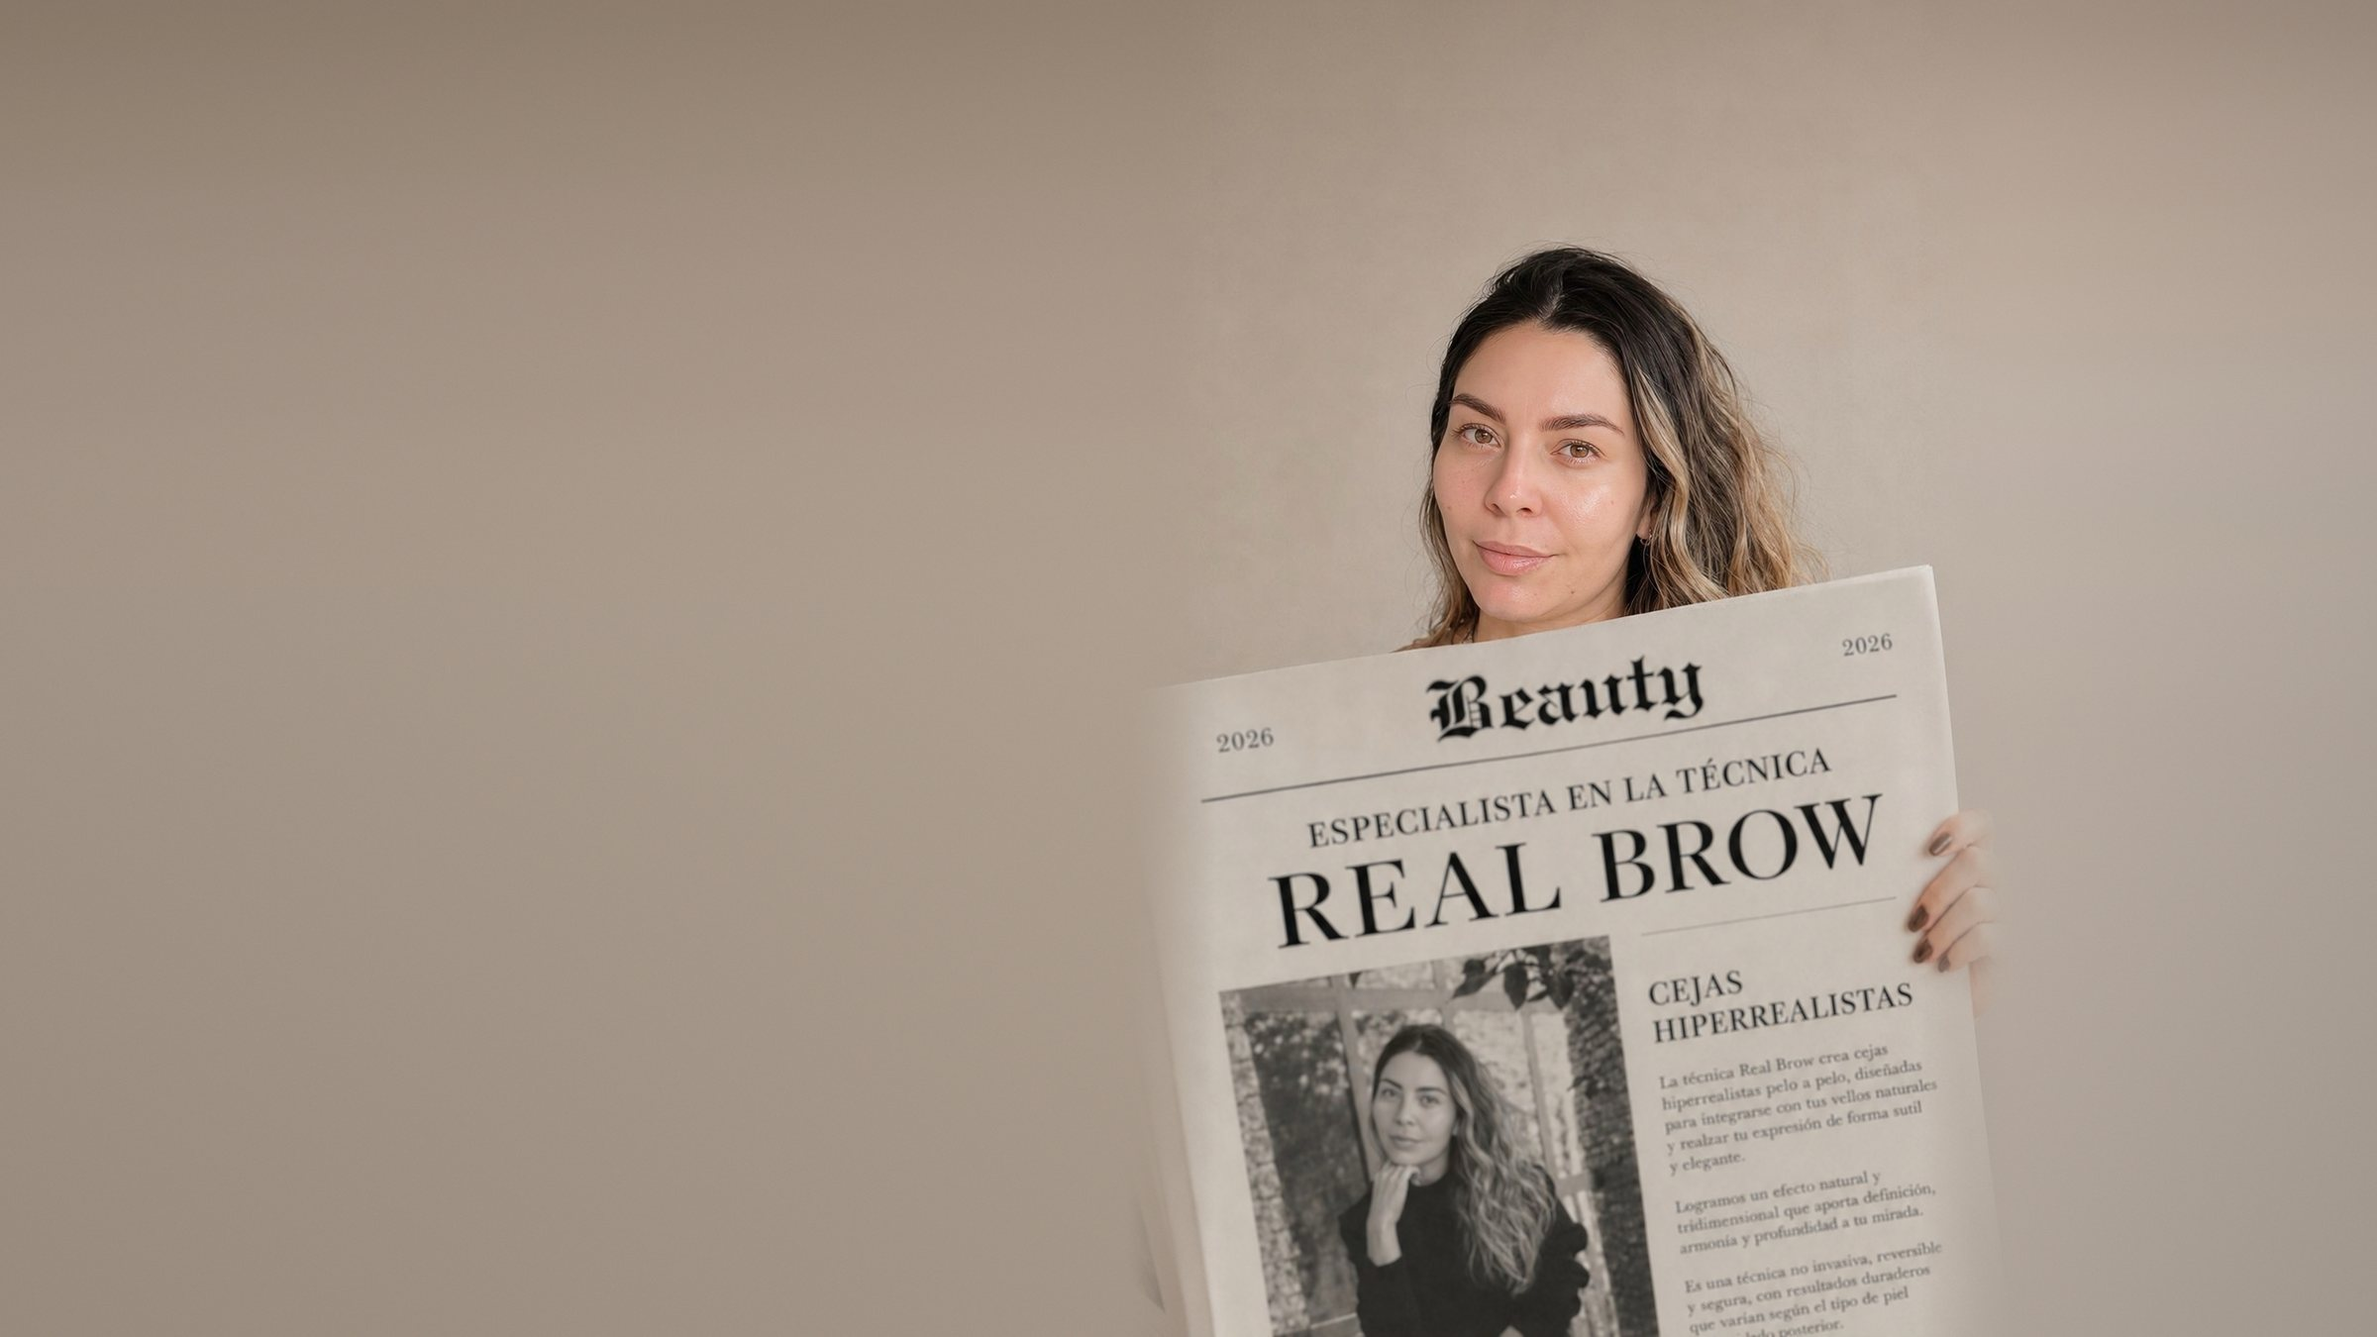
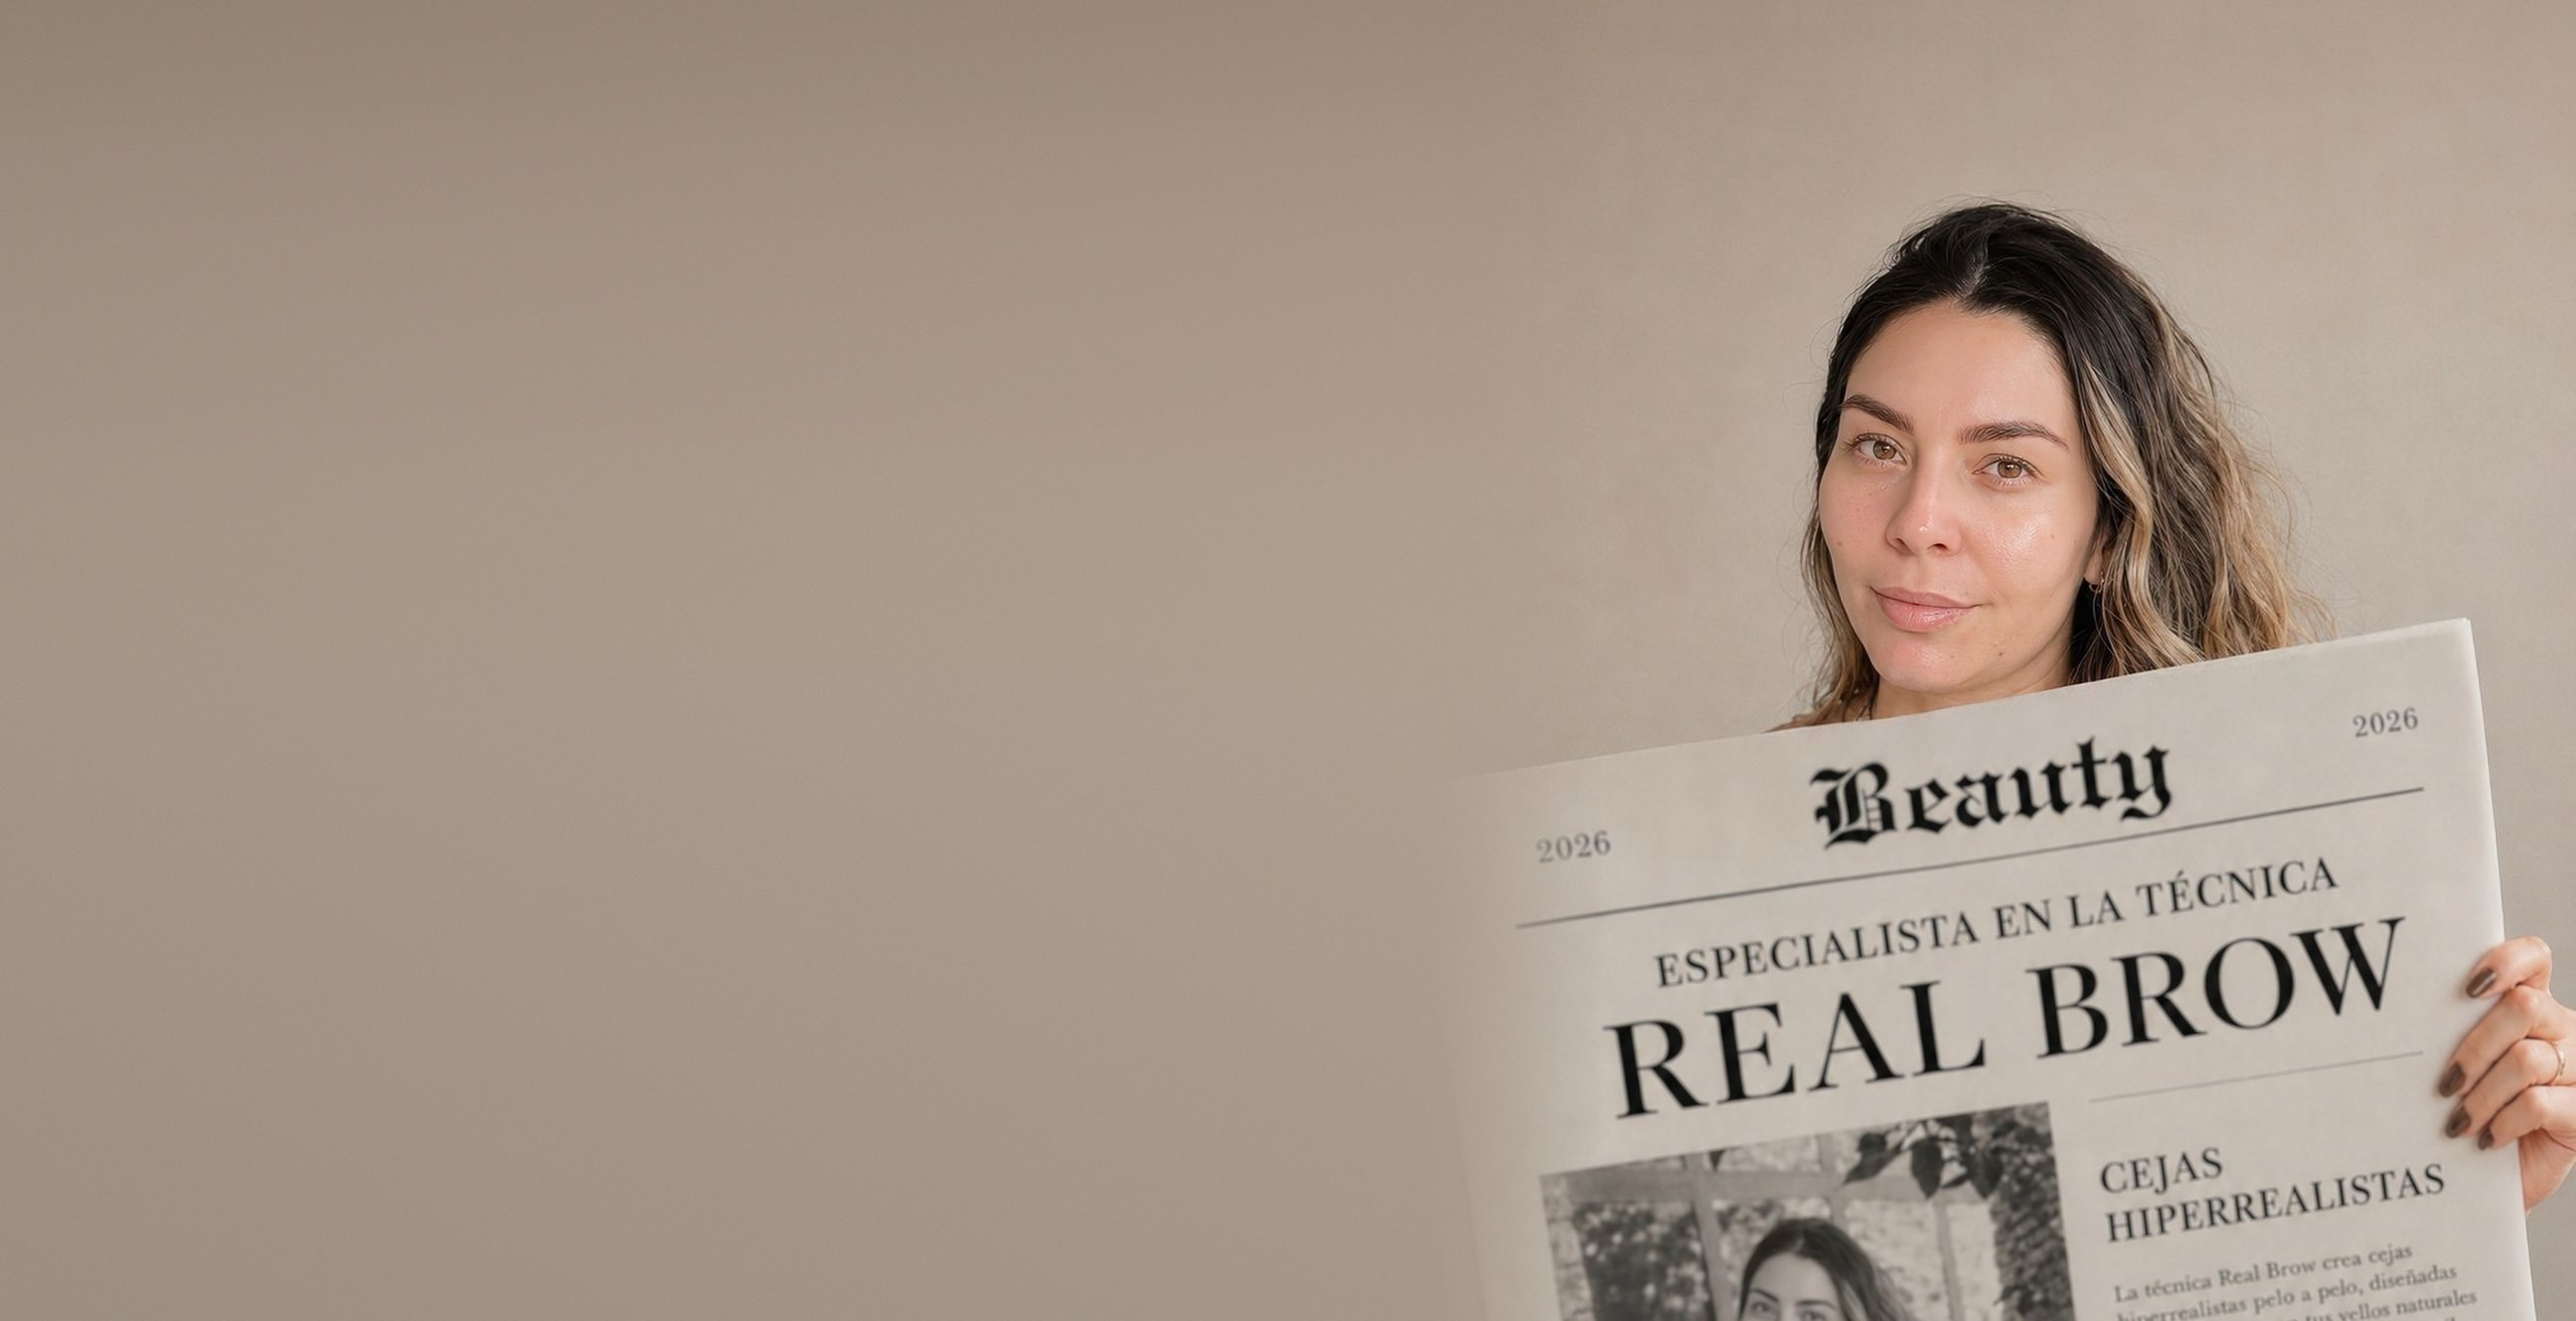
Portada: foto grande a la derecha sobre su misma pared y menú repartido
- La parte izquierda usa el mismo color de la pared de la foto
- Menú repartido a lo ancho de toda la página
- Se quita el texto de servicios de la portada

Claude-Session: https://claude.ai/code/session_018AwVWNrBSKi6Umng32X6JV

Changed region(s): [[0.5, 0.1537, 1.0, 1.0]]

diff --git a/index.html b/index.html
@@ -50,6 +50,7 @@
   .cabecera .logo{transition:opacity .3s}
   .cabecera.transparente{background:transparent;border-bottom-color:transparent;backdrop-filter:none;-webkit-backdrop-filter:none}
   .cabecera.transparente .logo{opacity:0;pointer-events:none}
+  @media (min-width:861px){.cabecera.transparente .logo{display:none}.cabecera.transparente .contenedor{width:calc(100% - 8vw)}.cabecera.transparente .menu{flex:1;justify-content:space-between}}
   .cabecera .contenedor{display:flex;align-items:center;justify-content:space-between;height:72px}
   .logo{font-family:var(--serif);font-size:1.75rem;font-weight:600;color:var(--cafe);text-decoration:none;letter-spacing:.02em}
   .logo span{font-style:italic;font-weight:500;color:var(--dorado)}
@@ -77,11 +78,11 @@
   .acciones{display:flex;gap:1rem;flex-wrap:wrap}
   .portada{padding:0;position:relative;height:100vh;height:100svh;min-height:560px;overflow:hidden;background:#AF9E8F}
   .portada-foto,.portada-foto picture,.portada-foto img{position:absolute;inset:0;width:100%;height:100%}
-  .portada-foto img{object-fit:cover;object-position:70% 40%;display:block;transform:scale(1.28);transform-origin:94% 18%}  /* foto más grande a la derecha */
+  .portada-foto img{object-fit:cover;object-position:100% 0%;display:block}  /* foto pegada a la derecha; la izquierda es su misma pared */
   .portada-capa{position:relative;z-index:1;height:100%;display:grid;grid-template-columns:50% 1fr;align-items:center;padding-top:72px}
   .portada-lado{padding:0 24px 0 max(24px,4vw);display:flex;flex-direction:column;align-items:center;text-align:center;min-width:0}
   .portada-logo{display:block;width:min(36vw,560px,100%);height:auto}
-  .portada-frase{margin-top:clamp(14px,2.4vh,28px);font-family:var(--serif);font-size:clamp(1.9rem,2.6vw,3rem);line-height:1.1;color:var(--cafe)}
+  .portada-frase{margin:clamp(14px,2.4vh,28px) 0 clamp(24px,4vh,40px);font-family:var(--serif);font-size:clamp(1.9rem,2.6vw,3rem);line-height:1.1;color:var(--cafe)}
   .portada-frase em{display:inline;color:var(--suave)}
   .portada-texto{color:var(--texto);opacity:.8;margin:.8rem auto 1.8rem;max-width:460px}
   .portada .acciones{justify-content:center}
@@ -98,7 +99,6 @@
     .portada-logo{width:min(360px,86%)}
     .portada-frase{margin-top:8px}
     .portada-frase em{display:block}
-    .portada-foto img{transform:none}
     .bajar{display:none}
     .portada .acciones .btn{flex:1 1 100%;justify-content:center}
   }
@@ -314,7 +314,6 @@
       <div class="portada-lado">
         <h1><img class="portada-logo" src="imagenes/logo-real-brow.png" alt="Jessica Camejo · Real Brow Studio" width="1000" height="318"></h1>
         <p class="portada-frase">Cejas que enmarcan <em>tu mirada</em></p>
-        <p class="portada-texto">Henna Brow, Natural Brow, Técnica Real Brow y rehabilitación folicular en Arauca.</p>
         <div class="acciones">
           <a href="#reservar" class="btn btn-principal">Reservar mi cita</a>
           <a href="#galeria" class="btn btn-secundario">Ver mis trabajos</a>
